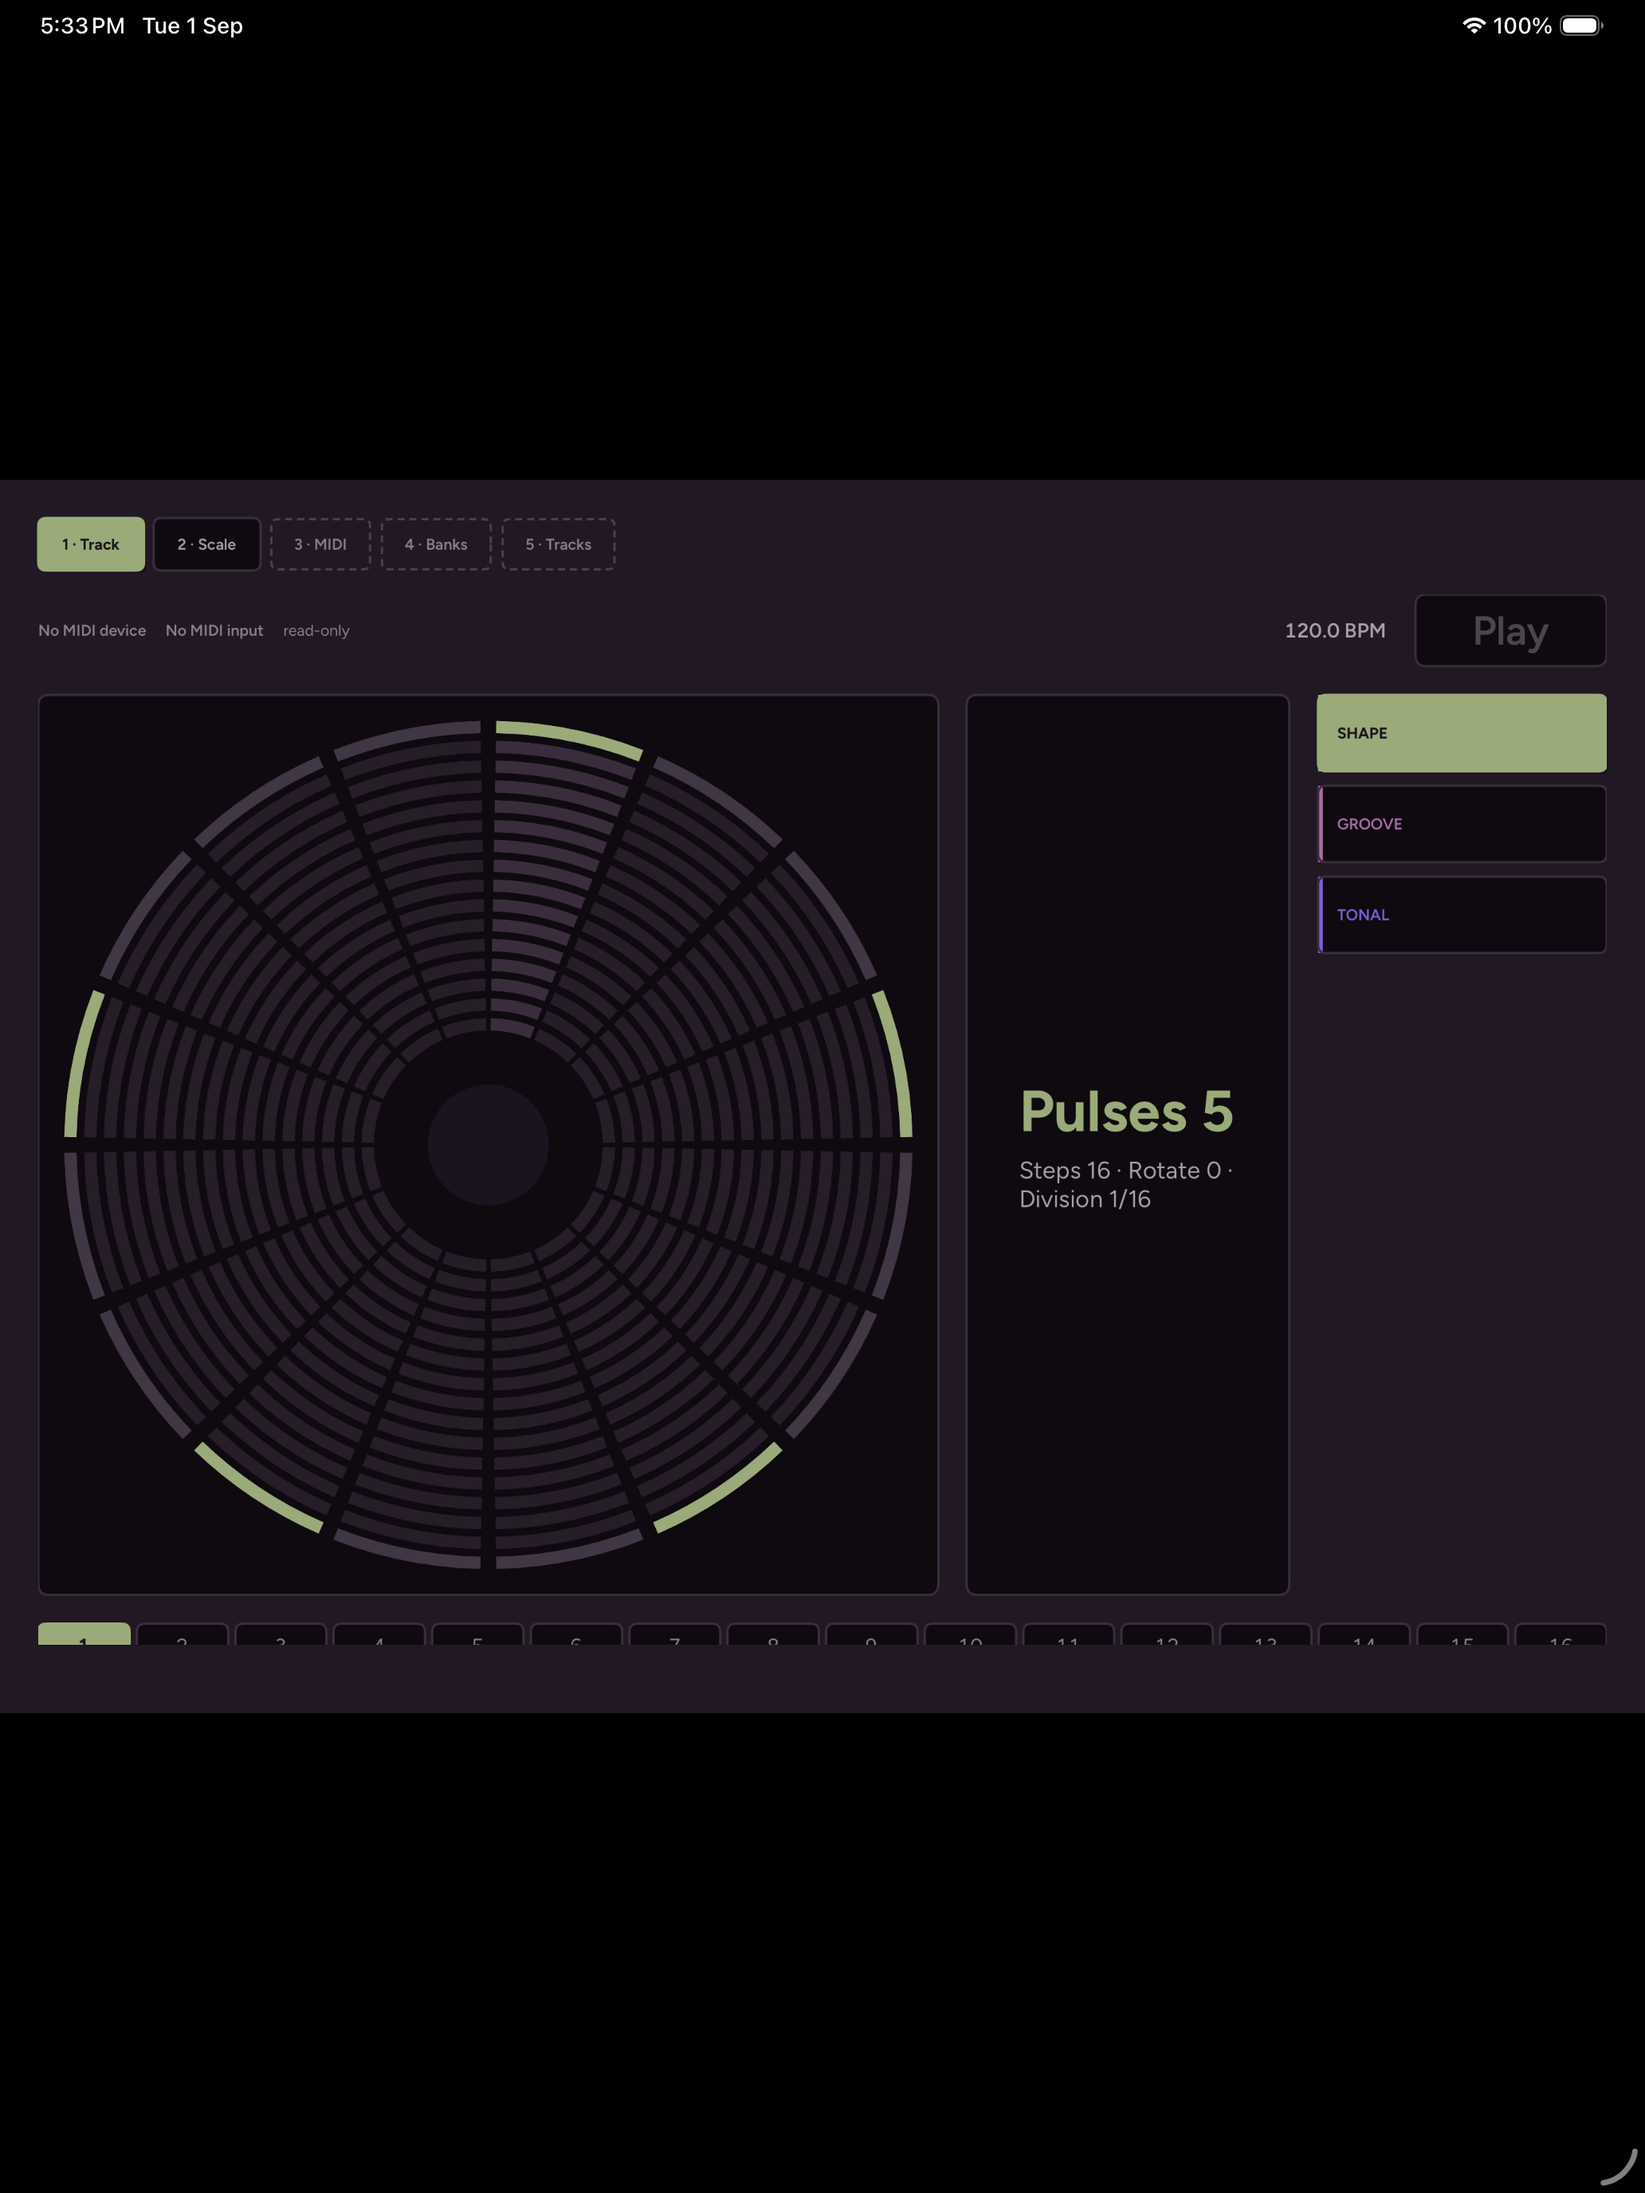
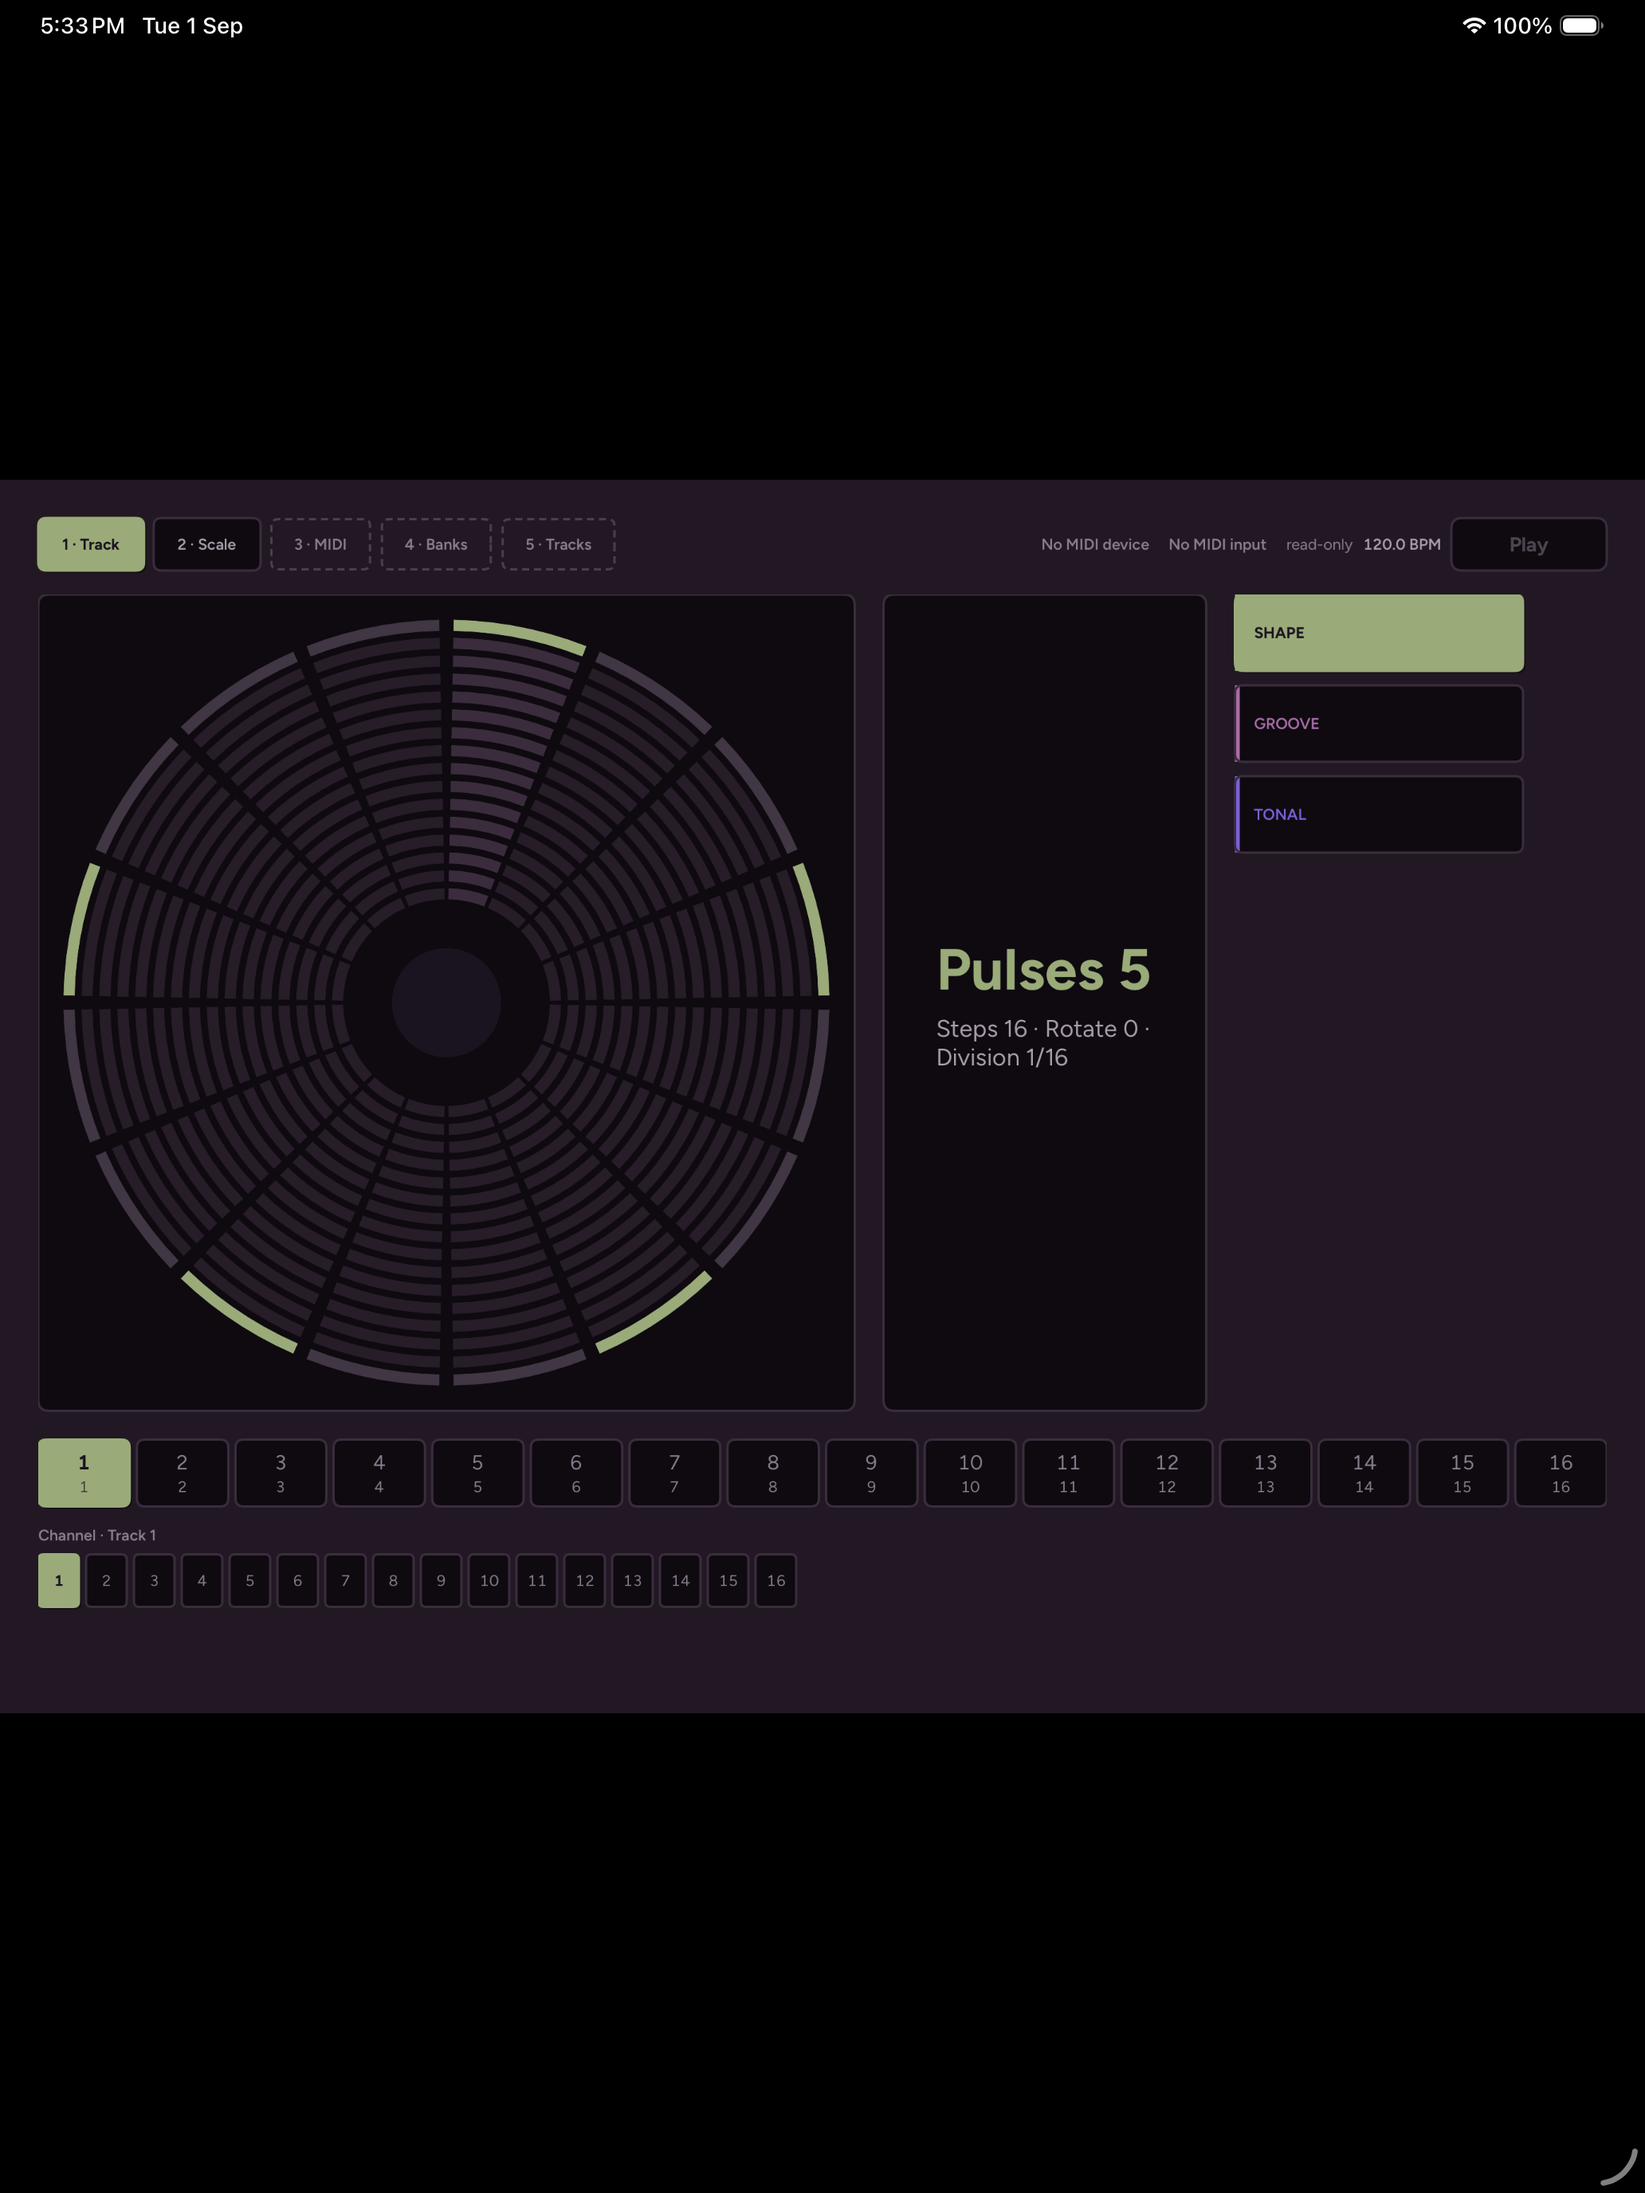
feat(ui): Put tempo and transport in the tab row, and fit the stage to the height
The handoff draws the tabs on one line and the tempo and transport on another.
That is one row more than this screen has room for: with the rings taking the
wide column (FR14), those ~64 points were exactly what the track and channel
selectors needed in order not to be cut off.

The ring was also sized from width alone, so it grew until it pushed the
selectors off screen. It is square, so the shorter dimension bounds it: the
stage now takes the smaller of its column and the height left once the rows
below are reserved. Those rows are controls, and not being able to see them is
worse than a slightly smaller ring.

diff --git a/App/ContentView.swift b/App/ContentView.swift
@@ -46,19 +46,20 @@ struct ContentView: View {
         // sin quedar circular: el `ScrollView` pregunta la altura al contenido y
         // el contenido la sacaría del `ScrollView`.
         GeometryReader { screen in
-            content(width: screen.size.width - 64)
+            content(width: screen.size.width - 64, height: screen.size.height - 64)
         }
     }
 
-    private func content(width: CGFloat) -> some View {
+    private func content(width: CGFloat, height: CGFloat) -> some View {
         VStack(alignment: .leading, spacing: 20) {
             navigation
             ScrollView {
                 switch screen {
-                case .track: trackScreen(width: width)
+                case .track: trackScreen(width: width, height: height)
                 case .scale: scaleScreen
                 }
             }
+            .scrollBounceBehavior(.basedOnSize)
         }
         .padding(32)
         .frame(maxWidth: .infinity, alignment: .leading)
@@ -100,6 +101,13 @@ struct ContentView: View {
     /// Track × Pattern necesita Patterns, y ninguna de las dos existe.
     private static let unavailableScreens = ["3 · MIDI", "4 · Banks", "5 · Tracks"]
 
+    /// **Una sola fila arriba, no dos.**
+    ///
+    /// El handoff dibuja las pestañas y debajo una barra con el tempo y el
+    /// transporte. Son dos renglones y esta pantalla tiene uno de más: con los
+    /// anillos ocupando el ancho grande (FR14), esos ~64 puntos eran justo los
+    /// que le faltaban al selector de Tracks y de canal para caber sin cortarse.
+    /// Decidido con el usuario el 2026-09-01, viendo la pantalla.
     private var navigation: some View {
         HStack(spacing: 8) {
             ForEach(Screen.allCases, id: \.self) { candidate in
@@ -128,16 +136,32 @@ struct ContentView: View {
                     .brutalistUnavailable()
             }
 
-            Spacer(minLength: 0)
+            Spacer(minLength: 16)
+
+            midiStatus
+
+            // **El punto decimal no depende del locale.** La interfaz va en
+            // inglés y sin traducir (NFR7), y el handoff escribe `120.0 BPM`;
+            // interpolar un `Double` daba `120,0` en un iPad en español, que es
+            // la mitad del texto en un idioma y la otra mitad en otro.
+            Text(
+                String(
+                    format: "%.1f BPM", locale: Locale(identifier: "en_US_POSIX"),
+                    model.beatsPerMinute)
+            )
+            .font(Typography.captionStrong)
+            .monospacedDigit()
+            .foregroundStyle(Palette.mutedBright)
+
+            transport
         }
     }
 
     // MARK: - Las dos pantallas
 
-    private func trackScreen(width: CGFloat) -> some View {
+    private func trackScreen(width: CGFloat, height: CGFloat) -> some View {
         VStack(alignment: .leading, spacing: 24) {
-            topBar
-            stage(width: width)
+            stage(width: width, height: height)
             TrackSelectorView(
                 selected: model.selectedTrackIndex,
                 hasMaterial: model.tracksWithMaterial,
@@ -174,20 +198,32 @@ struct ContentView: View {
     /// que se lee de un vistazo es la *forma* —cuáles tienen material, cuál está
     /// elegido, por dónde va el tiempo—, no el detalle de un Step. El detalle es
     /// el panel.
-    private func stage(width: CGFloat) -> some View {
+    private func stage(width: CGFloat, height: CGFloat) -> some View {
         let columns = Self.columns(in: width)
+        // **El anillo es cuadrado, así que lo acota la dimensión más corta.**
+        // Con solo el ancho crecía hasta empujar el selector y la fila de canal
+        // fuera de la pantalla, y esas dos son controles: quedarse sin verlos es
+        // peor que un anillo algo menor.
+        let side = min(columns.rings, height - Self.reservedBelowStage)
 
         return HStack(alignment: .top, spacing: Self.gutter) {
             rings
-                .frame(width: columns.rings, height: columns.rings)
+                .frame(width: side, height: side)
 
             readout
-                .frame(width: columns.readout, height: columns.rings)
+                .frame(width: columns.readout, height: side)
 
             families
-                .frame(width: columns.families, height: columns.rings)
+                .frame(width: columns.families, height: side)
         }
     }
+
+    /// Lo que hay que dejar libre debajo del escenario: la fila de navegación,
+    /// el selector de los dieciséis y la fila de canal, con sus separaciones.
+    ///
+    /// Es una suma de constantes de layout y no una medida: si alguna de las
+    /// tres cambia de alto, este número cambia con ella.
+    static let reservedBelowStage: CGFloat = 260
 
     /// El hueco entre columnas.
     static let gutter: CGFloat = 24
@@ -235,36 +271,7 @@ struct ContentView: View {
         .brutalistPanel()
     }
 
-    // MARK: - La barra superior
-
-    /// Lo que el handoff pone arriba: a la izquierda la identidad de lo que
-    /// suena, a la derecha el tempo y el transporte (FR6).
-    ///
-    /// **En el sitio de `Bank 1 · Pattern A` va el estado MIDI.** Banks y
-    /// Patterns no existen todavía, y dejar su hueco vacío o rellenarlo con un
-    /// nombre inventado serían las dos maneras de mentir. El estado MIDI es lo
-    /// que de verdad hay que mirar hoy —de dónde llegan los giros y a dónde
-    /// salen las notas— y ocupará otro sitio cuando Banks llegue.
-    private var topBar: some View {
-        HStack(alignment: .center, spacing: 24) {
-            midiStatus
-            Spacer(minLength: 24)
-            // **El punto decimal no depende del locale.** La interfaz va en
-            // inglés y sin traducir (NFR7), y el handoff escribe `120.0 BPM`;
-            // interpolar un `Double` daba `120,0` en un iPad en español, que es
-            // la mitad del texto en un idioma y la otra mitad en otro.
-            Text(
-                String(
-                    format: "%.1f BPM", locale: Locale(identifier: "en_US_POSIX"),
-                    model.beatsPerMinute)
-            )
-            .font(Typography.bodyMedium)
-            .monospacedDigit()
-            .foregroundStyle(Palette.mutedBright)
-            transport
-        }
-        .frame(maxWidth: .infinity)
-    }
+    // MARK: - Estado MIDI
 
     /// **Estado, nunca disculpa** (`product-guidelines.md`).
     ///
@@ -465,12 +472,12 @@ struct ContentView: View {
         Button(model.isPlaying ? "Stop" : "Play") {
             model.isPlaying ? model.stop() : model.play()
         }
-        .font(Typography.transportLabel)
+        .font(Typography.bodyStrong)
         .buttonStyle(.plain)
         .foregroundStyle(canTransport ? Palette.toolbar : Palette.muted)
         .disabled(!canTransport)
         // Objetivo táctil holgado: se toca de pie, delante del sintetizador.
-        .frame(minWidth: 160, minHeight: 60)
+        .frame(minWidth: 130, minHeight: 44)
         .brutalistControl(
             accent: Palette.shape,
             isSelected: canTransport,
